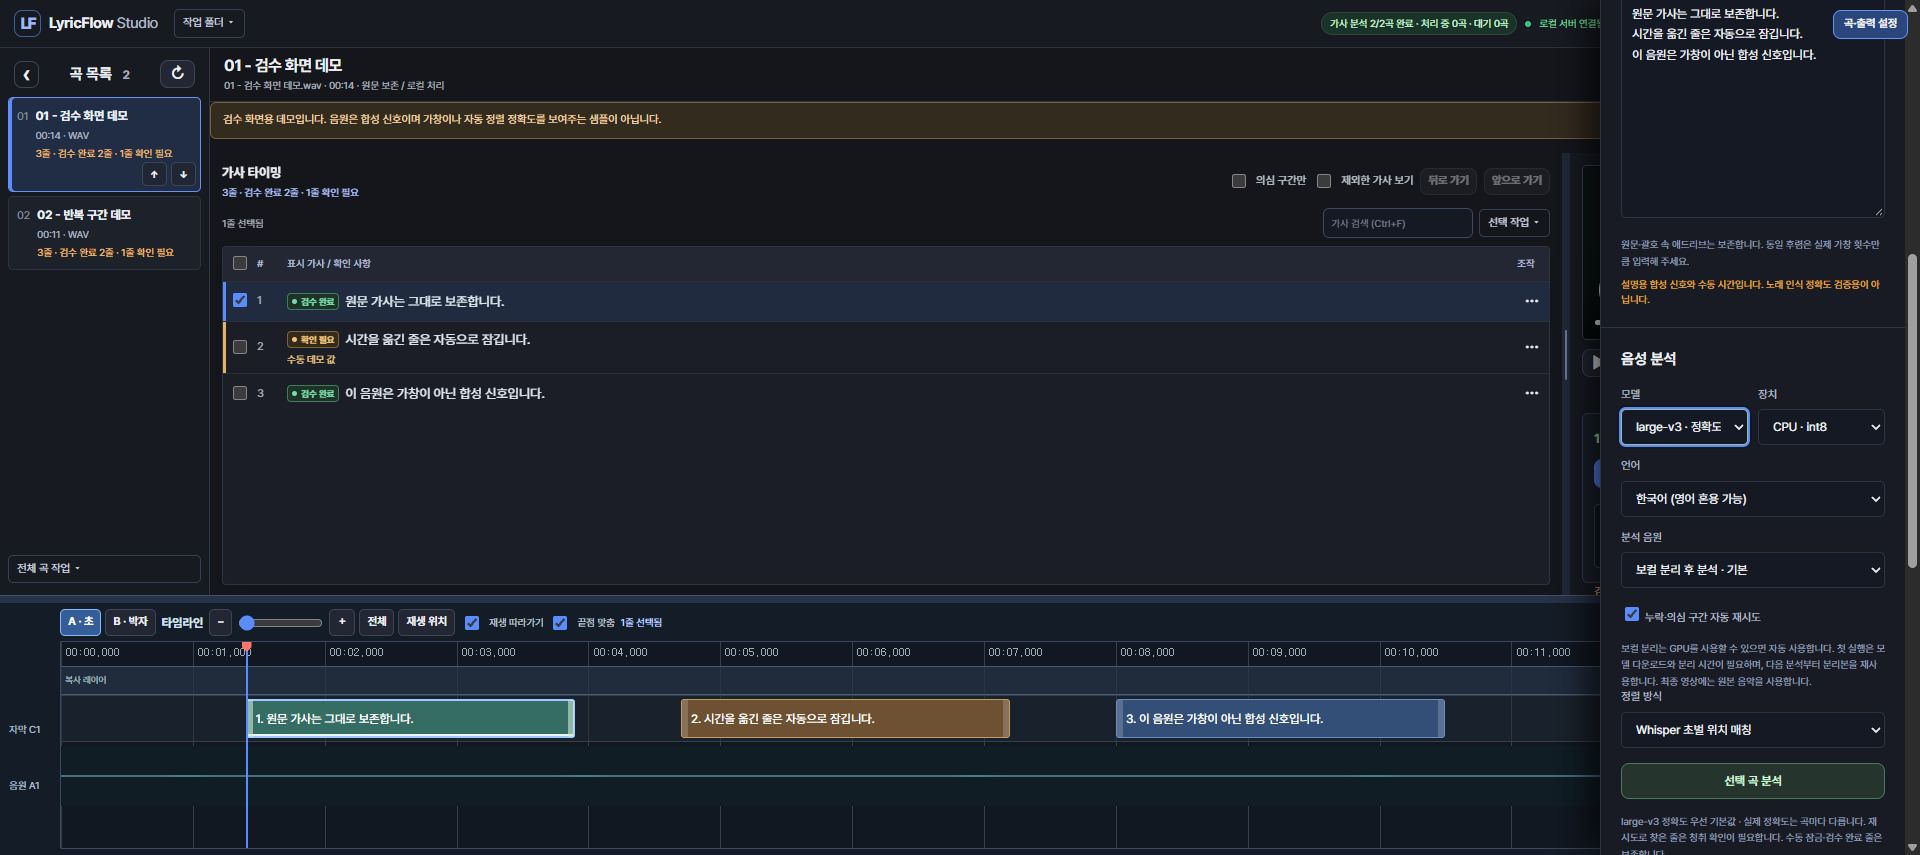
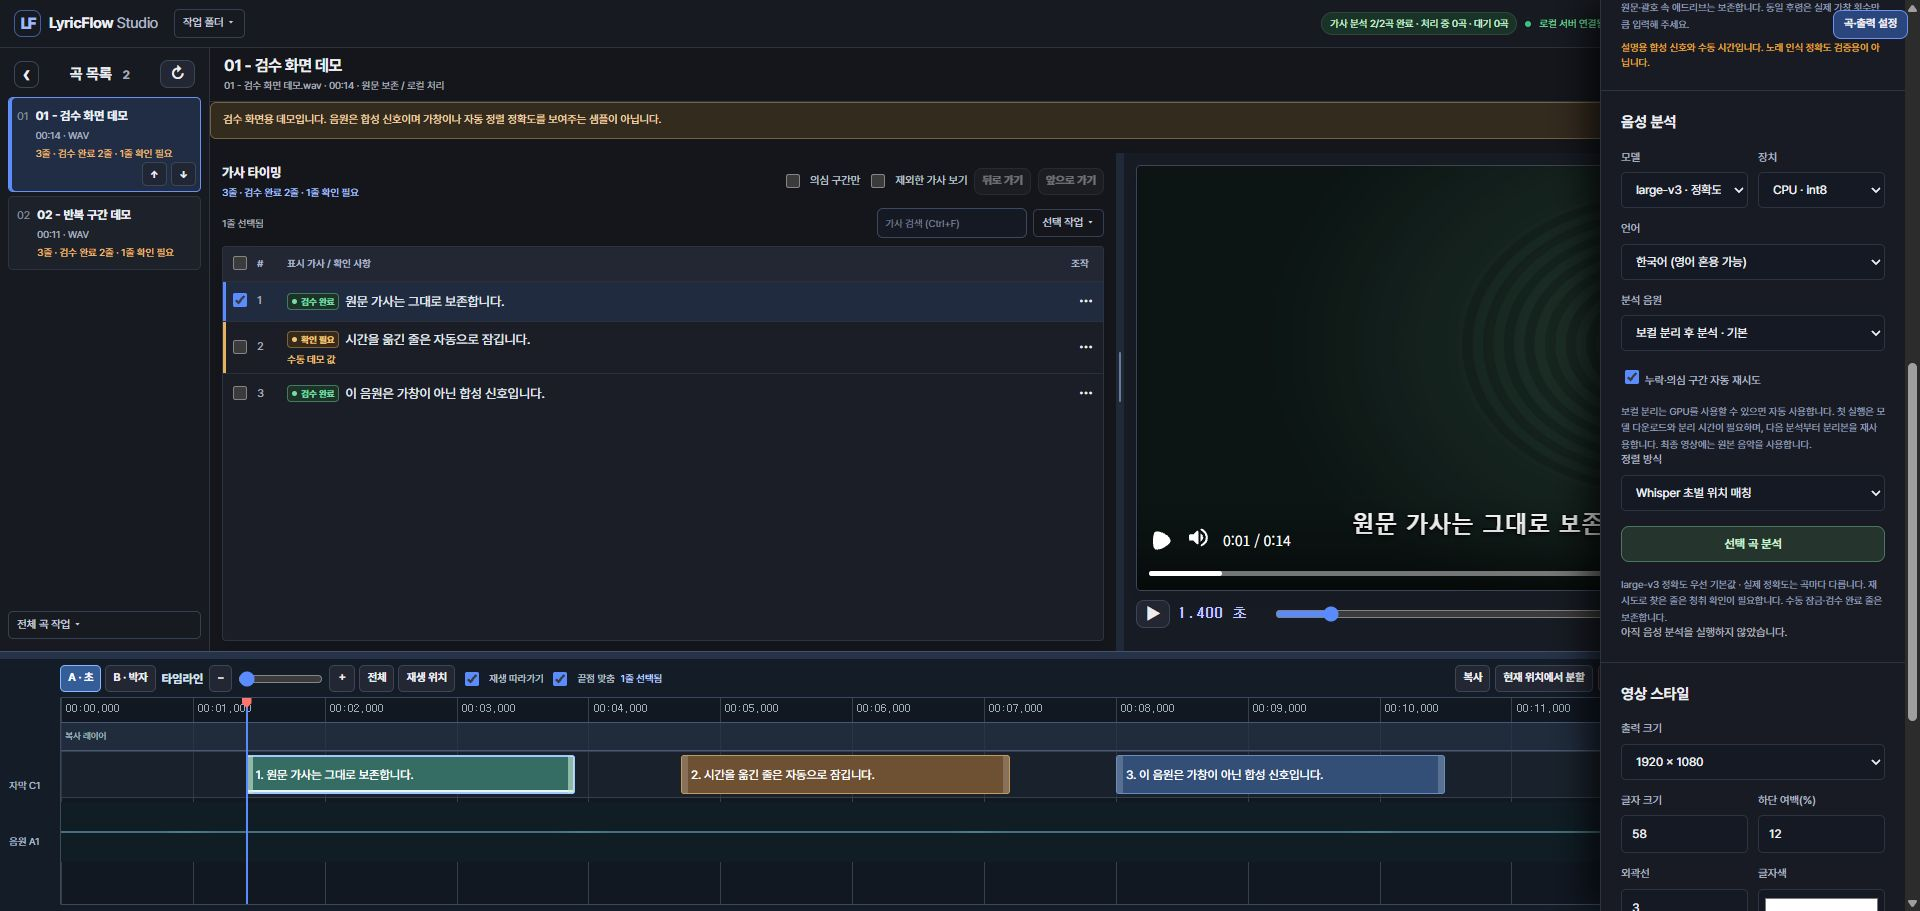
docs: refresh README screenshots with latest synthetic demo UI

diff --git a/README.md b/README.md
@@ -32,7 +32,7 @@
 
 아래는 프로그램을 직접 실행해 캡처한 **검수 데모**입니다. 개인 곡·개인 가사·개인 배경 이미지는 포함하지 않았습니다. 합성 테스트 음원, 설명용 문장, 수동 타이밍을 사용하므로 음성 인식 정확도를 보여주는 예시는 아닙니다.
 
-**가사 검수 화면** — 곡 목록, 자막 미리보기, 확인 상태, 시간축의 가사 블록을 한 화면에서 확인합니다.
+**가사 검수 화면 (2026-10-19 갱신)** — 곡 목록, 크기를 조절한 자막 미리보기, 확인 상태, 시간축의 가사 블록을 한 화면에서 확인합니다. 가사를 더블클릭하면 문구를 편집할 수 있고, 타임라인 오른쪽의 **자막 시작·자막 끝** 버튼으로 선택한 줄의 시간을 지정합니다.
 
 ![합성 데모의 가사 검수 및 타임라인 화면](docs/screenshots/demo-workspace.jpg)
 
